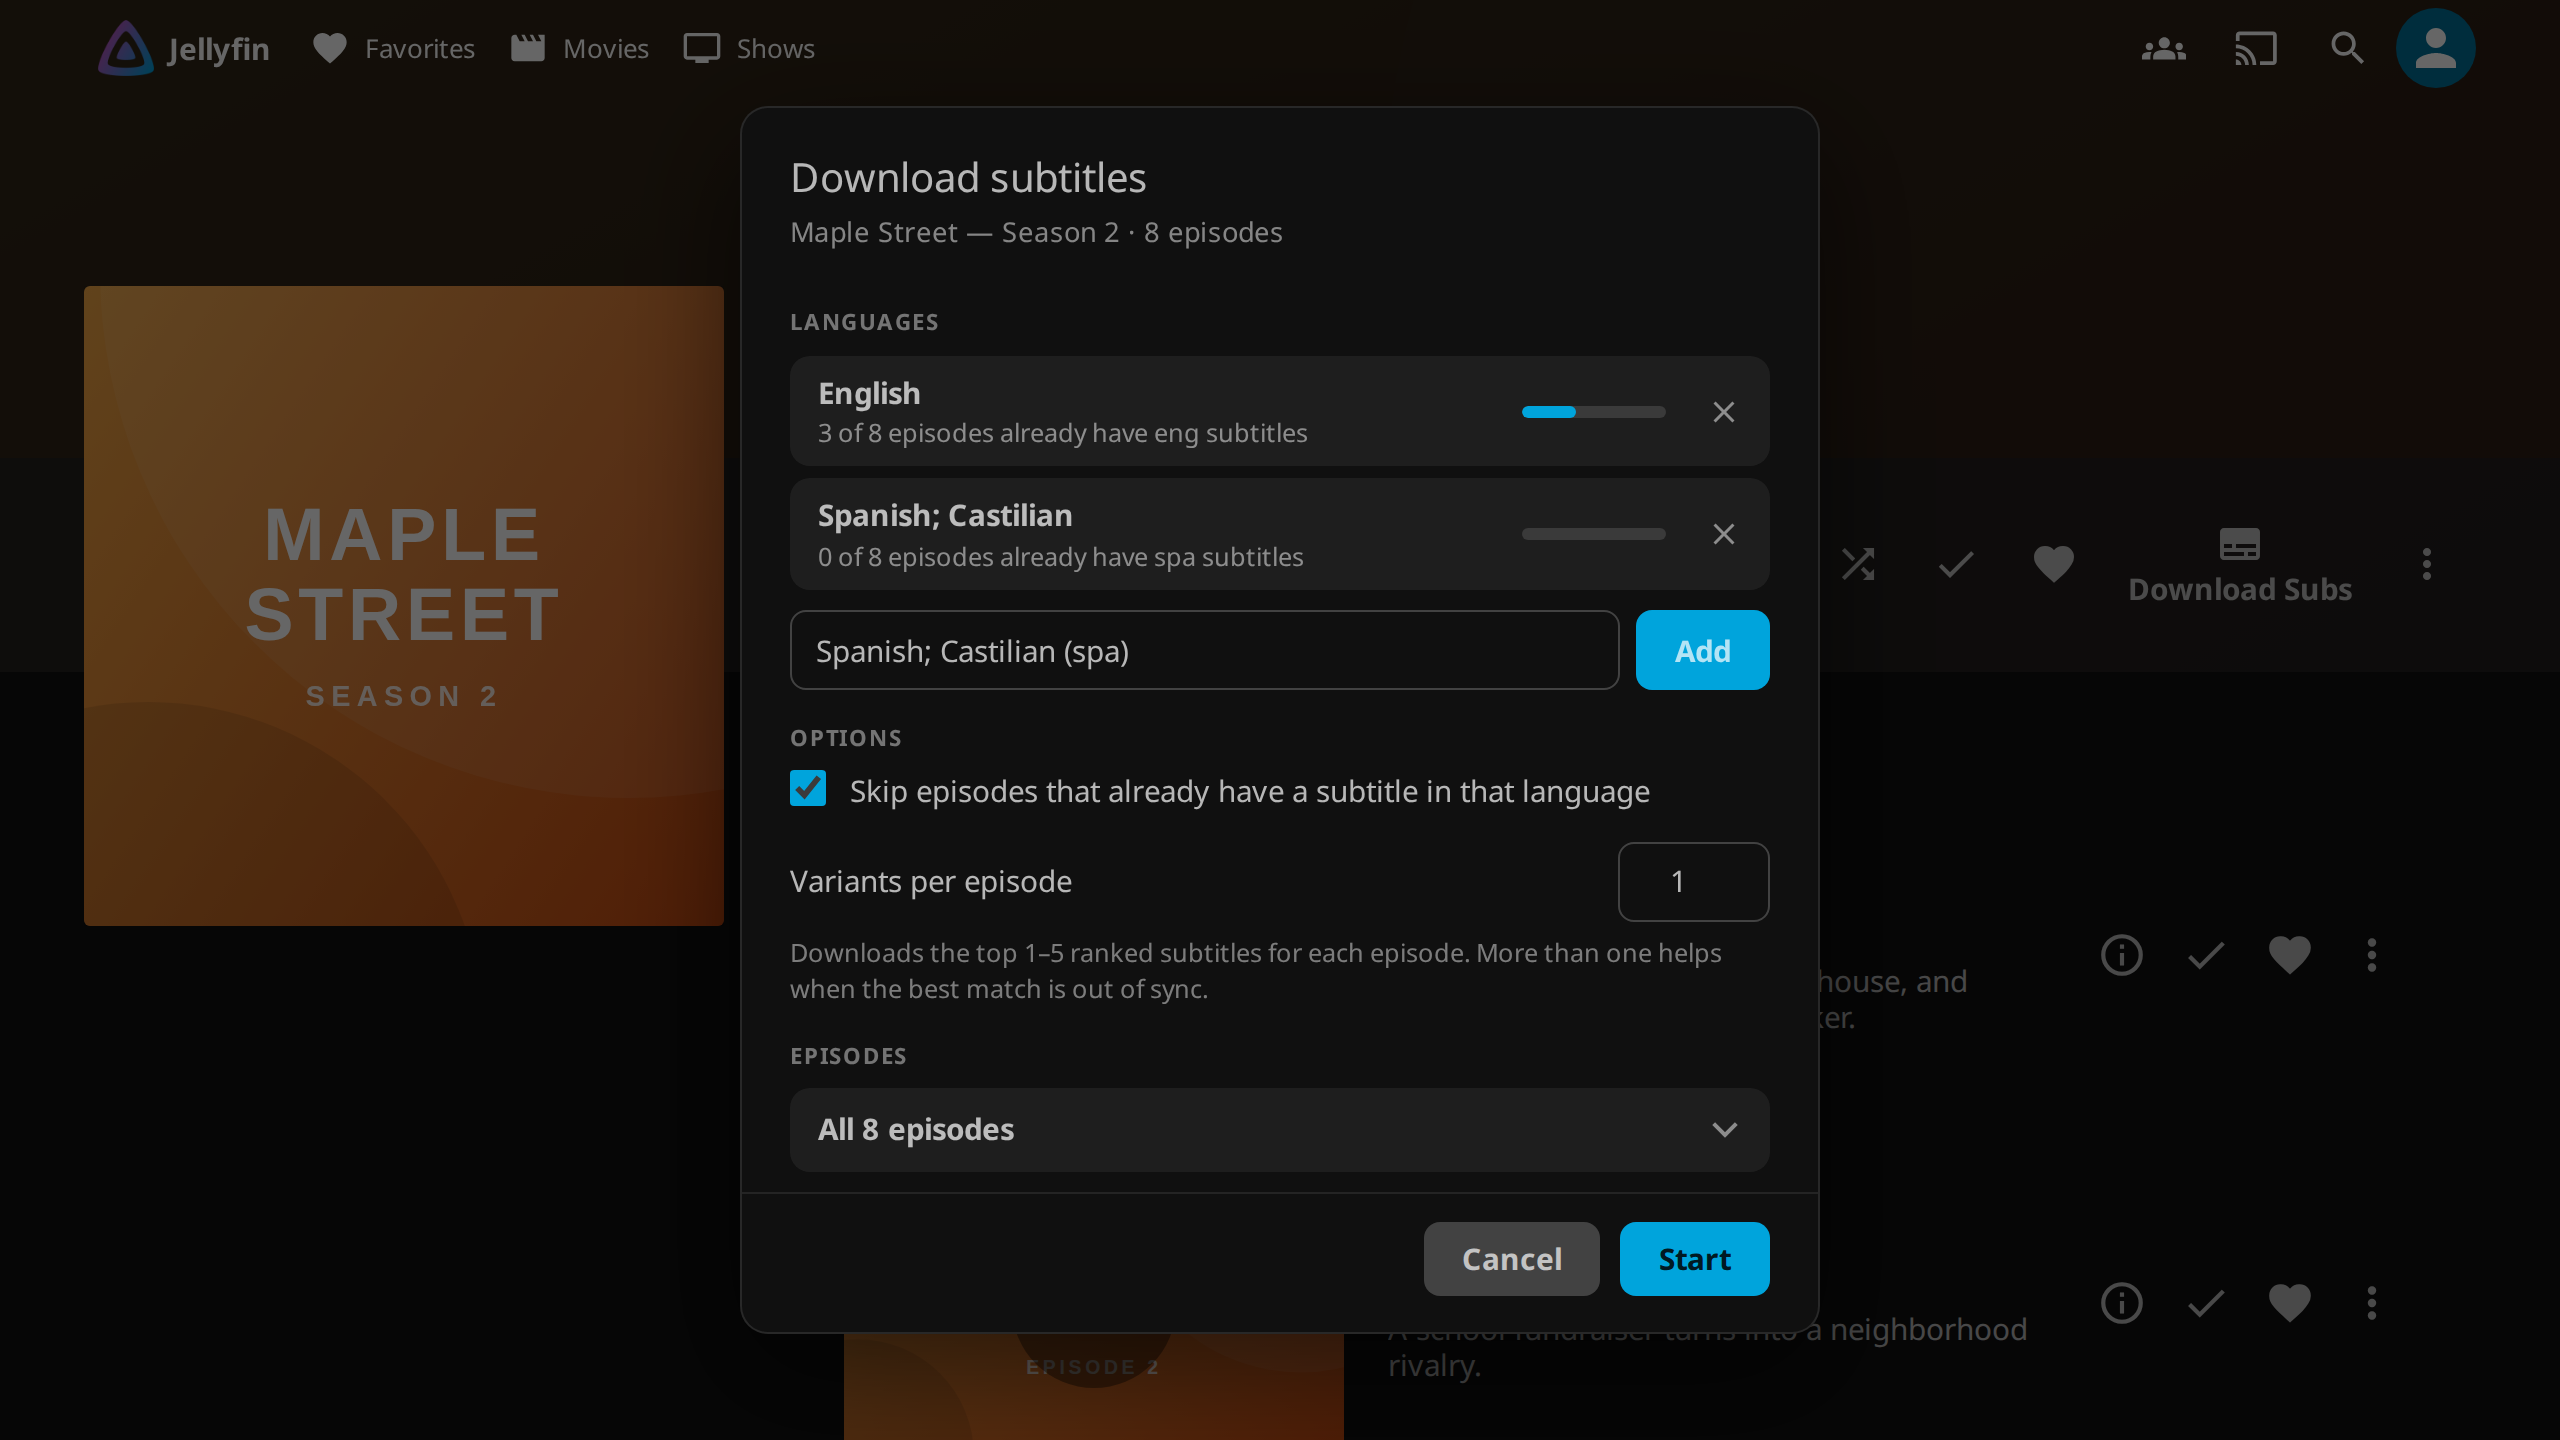
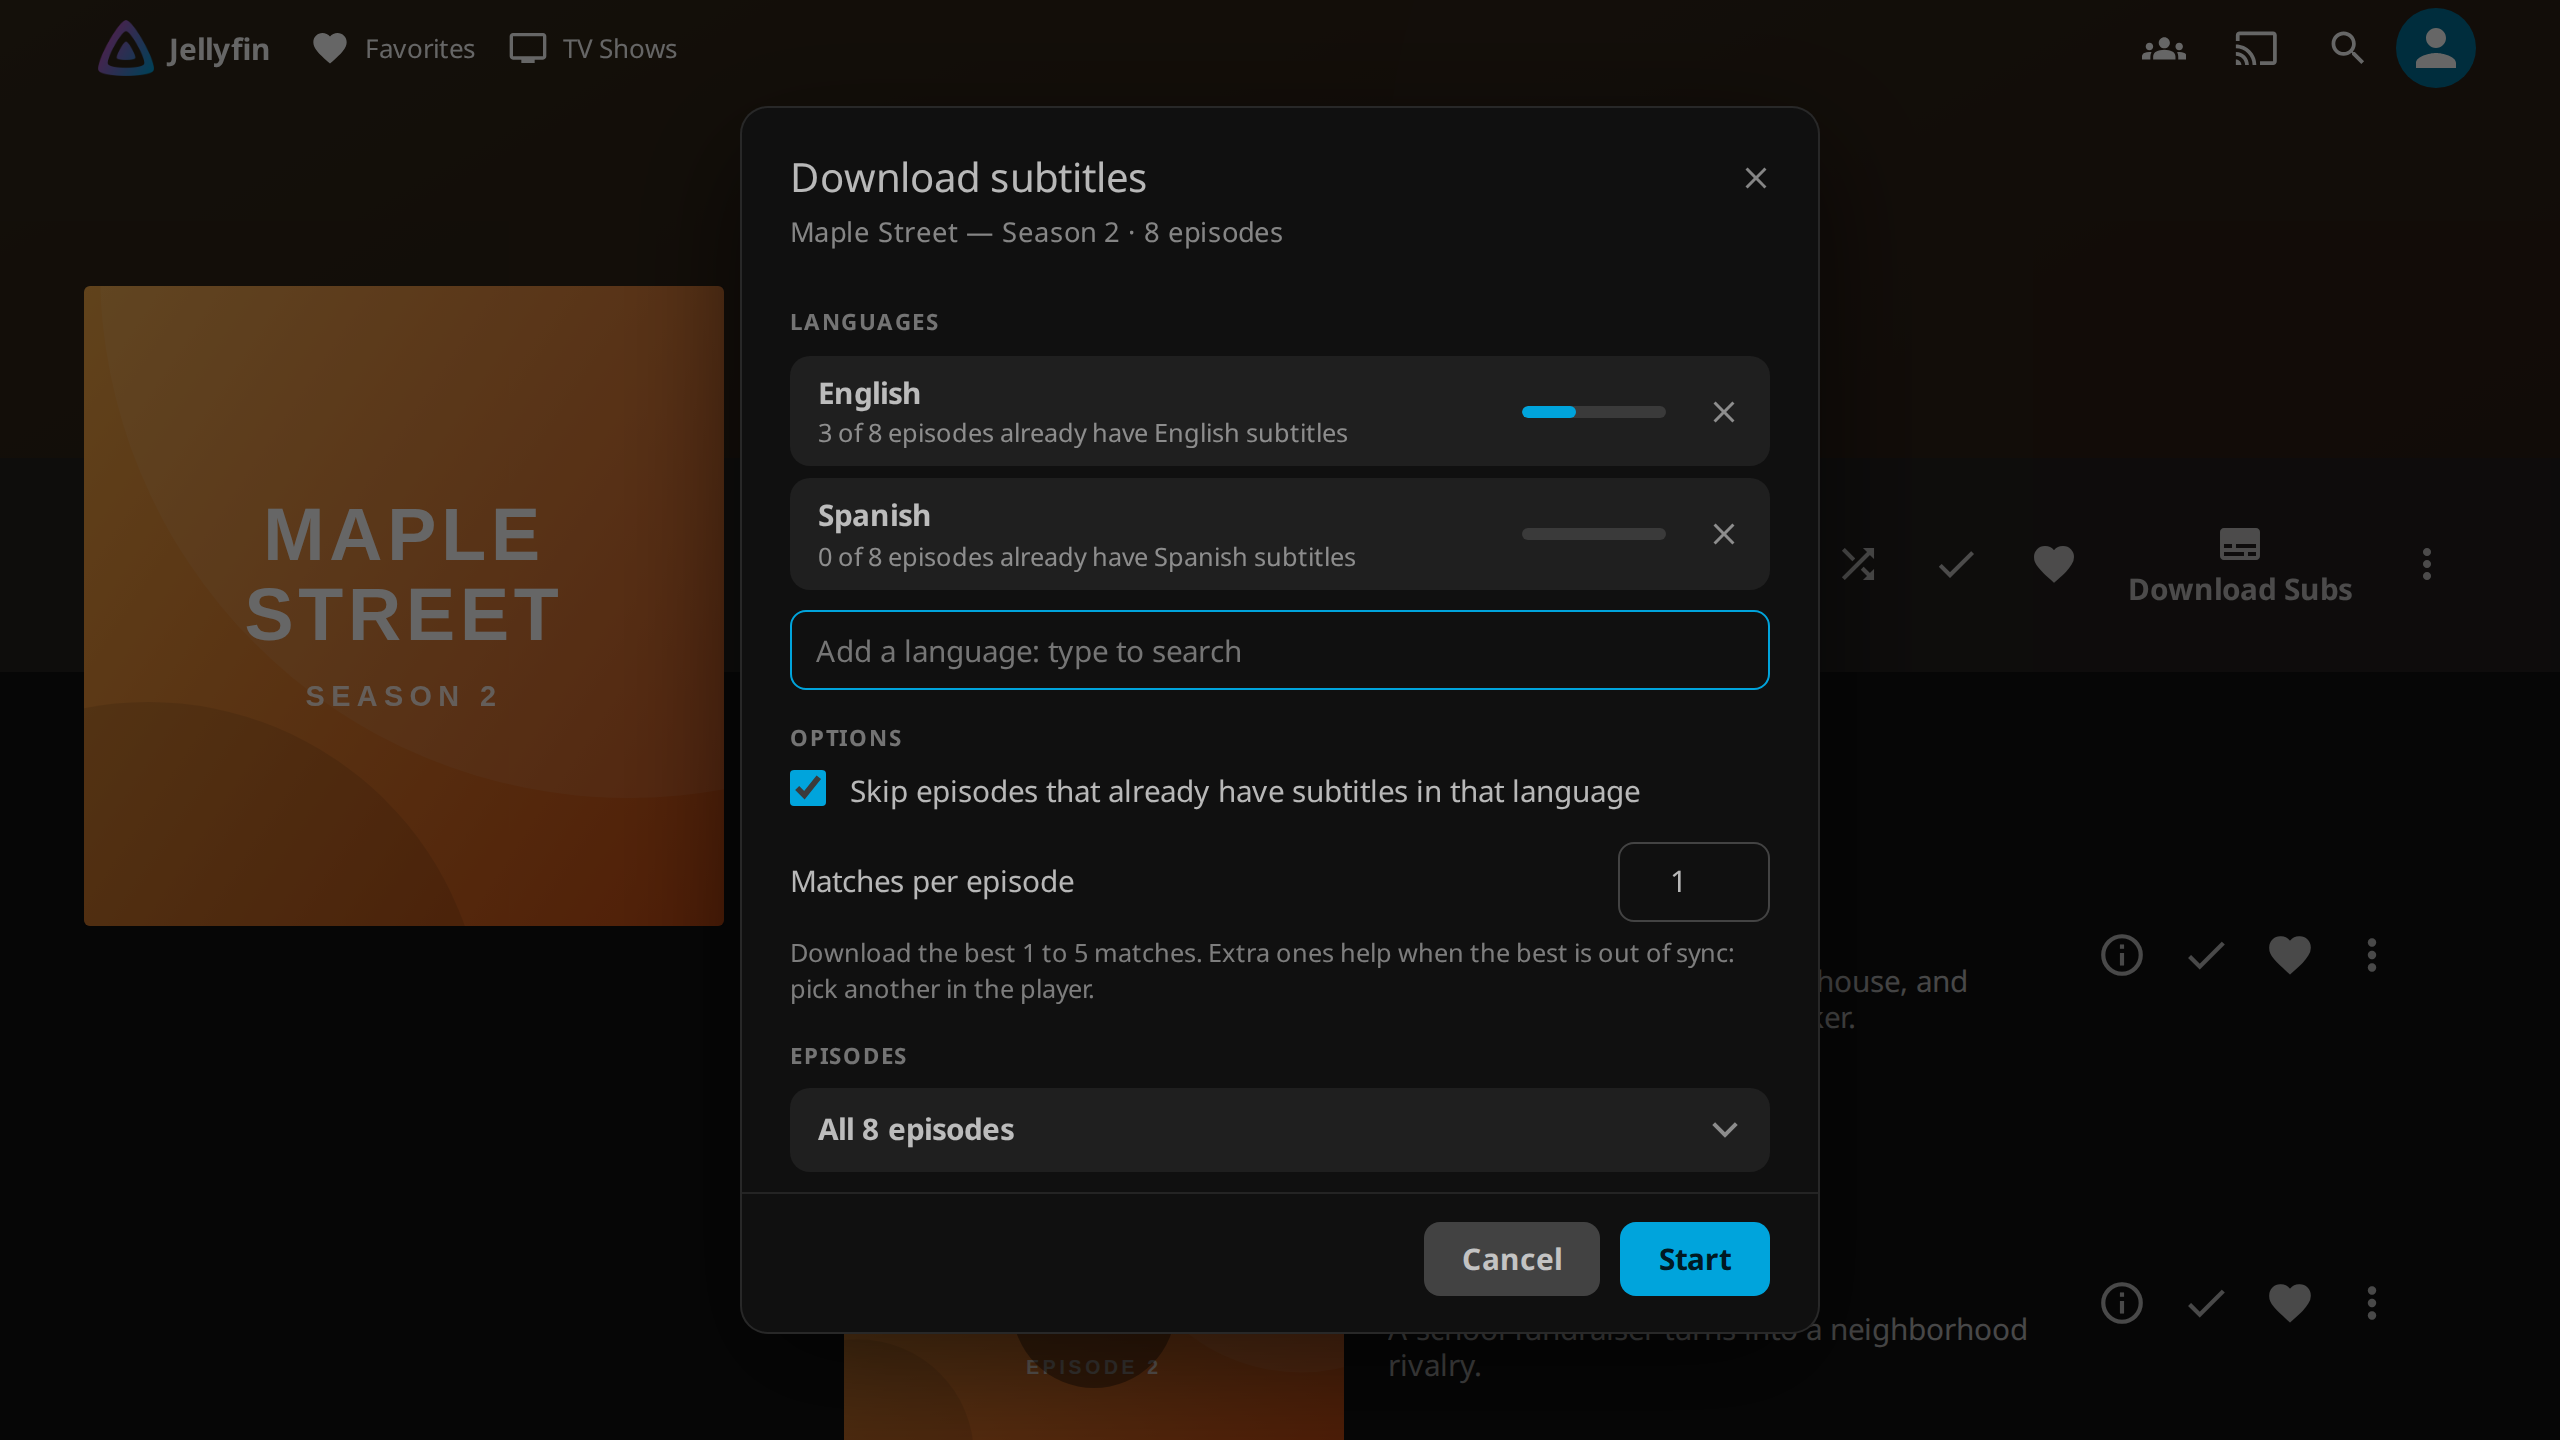
docs(demo): record the searchable picker and verified downloads

diff --git a/docs/demo/record_demo.py b/docs/demo/record_demo.py
@@ -47,8 +47,6 @@ def mock_id(*parts):
     return hashlib.md5(("subs-demo:" + ":".join(map(str, parts))).encode()).hexdigest()
 
 
-# ---- A made-up show ------------------------------------------------------------------------------------------------
-
 SHOW = {"name": "Maple Street", "year": 2014, "colors": ("#f6b04b", "#c2410c")}
 SERIES_ID = mock_id("series")
 SEASON_ID = mock_id("season", 2)
@@ -62,8 +60,8 @@ EPISODES = [
     (7, "Yard Sale", "One person's junk is another person's priceless heirloom."),
     (8, "Snowed In", "Stuck at home for three days with the in-laws."),
 ]
-HAS_ENGLISH = {1, 2, 4}  # episodes that already have English subtitles
-NO_MATCH = {(7, "spa")}  # the provider has nothing for these
+HAS_ENGLISH = {1, 2, 4}
+NO_MATCH = {(7, "spa")}
 
 ITEMS = {}
 ITEMS[SERIES_ID] = {
@@ -104,10 +102,21 @@ for number, title, overview in EPISODES:
     }
     EPISODE_ITEMS.append(ITEMS[item_id])
 EPISODE_NUMBER = {e["Id"]: e["IndexNumber"] for e in EPISODE_ITEMS}
+DOWNLOADED = {}
+
+
+def item(item_id):
+    found = ITEMS[item_id]
+    extra = DOWNLOADED.get(item_id)
+    if not extra:
+        return found
+    streams = found["MediaStreams"] + [
+        {"Type": "Subtitle", "Index": len(found["MediaStreams"]) + i, "Codec": "subrip", "Language": lang,
+         "IsExternal": True} for i, lang in enumerate(extra)]
+    return {**found, "MediaStreams": streams}
 
 
 def artwork(item_id, image_type):
-    """A generated title card (SVG) for the made-up show."""
     item = ITEMS[item_id]
     poster = image_type == "Primary" and item["Type"] in ("Series", "Season")
     w, h = (400, 600) if poster else (1280, 720) if image_type == "Backdrop" else (640, 360)
@@ -123,7 +132,7 @@ def artwork(item_id, image_type):
         lines += (f'<text x="50%" y="{h / 2 + size * 1.25:.0f}" text-anchor="middle" dominant-baseline="middle" '
                   f'font-size="{size * .38:.0f}" font-weight="600" letter-spacing="4" opacity=".85">{caption}</text>')
     if image_type == "Backdrop":
-        lines = ""  # backdrops stay plain so the page's title text reads well
+        lines = ""
     return f'''<svg xmlns="http://www.w3.org/2000/svg" width="{w}" height="{h}" viewBox="0 0 {w} {h}">
 <defs><linearGradient id="g" x1="0" y1="0" x2="1" y2="1"><stop offset="0" stop-color="{c1}"/>
 <stop offset="1" stop-color="{c2}"/></linearGradient></defs>
@@ -133,8 +142,6 @@ def artwork(item_id, image_type):
 <g fill="#fff" font-family="DejaVu Sans, Liberation Sans, Arial, sans-serif">{lines}</g>
 </svg>'''
 
-
-# ---- Request mocking ---------------------------------------------------------------------------------------------
 
 ID = r"([0-9a-f]{32})"
 stats = {"searches": 0, "downloads": 0}
@@ -156,11 +163,11 @@ def handle(route):
         replacement = f"<!-- season-subtitles-inject -->\n<script>{script}</script>\n<!-- /season-subtitles-inject -->"
         return route.fulfill(content_type="text/html", body=INJECTED.sub(lambda _: replacement, html))
     if path.startswith("/Branding/Css"):
-        return route.fulfill(content_type="text/css", body="")  # stock look: no custom theme
+        return route.fulfill(content_type="text/css", body="")
     if path == "/Branding/Configuration":
         branding = route.fetch().json()
-        branding["CustomCss"] = ""  # jellyfin-web also applies the custom CSS from here
-        return json_reply(route, branding)  # stock look, no custom theme
+        branding["CustomCss"] = ""
+        return json_reply(route, branding)
     if path.startswith("/EditorsChoice/"):
         return route.fulfill(content_type="text/javascript", body="")
     if path in ("/System/Info", "/System/Info/Public"):
@@ -168,17 +175,19 @@ def handle(route):
         info["ServerName"] = "Jellyfin"
         return json_reply(route, info)
     if path == f"/Plugins/{PLUGIN_GUID}/Configuration":
-        # The plugin's defaults, whatever the server has configured.
-        return json_reply(route, {"DefaultLanguage": "eng", "SkipExistingByDefault": True, "TopVariants": 1,
-                                  "RequestDelayMs": 0, "MaxRetries": 2})
+        return json_reply(route, {"DefaultLanguage": "", "DefaultLanguages": ["eng"], "SkipExistingByDefault": True,
+                                  "TopVariants": 1, "RequestDelayMs": 0, "MaxRetries": 2})
+    if path == "/Libraries/AvailableOptions":
+        return json_reply(route, {"SubtitleFetchers": [{"Name": "Open Subtitles", "DefaultEnabled": True}]})
     if path == f"/Shows/{SERIES_ID}/Episodes":
-        return json_reply(route, {"Items": EPISODE_ITEMS, "TotalRecordCount": len(EPISODE_ITEMS), "StartIndex": 0})
+        episodes = [item(e["Id"]) for e in EPISODE_ITEMS]
+        return json_reply(route, {"Items": episodes, "TotalRecordCount": len(episodes), "StartIndex": 0})
     if path == f"/Shows/{SERIES_ID}/Seasons":
         return json_reply(route, {"Items": [ITEMS[SEASON_ID]], "TotalRecordCount": 1, "StartIndex": 0})
     m = re.match(rf"^/Items/{ID}/RemoteSearch/Subtitles/([^/]+)$", path)
     if m and m.group(1) in ITEMS:
         episode, arg = m.group(1), m.group(2)
-        if request.method == "GET":  # search: arg is the language
+        if request.method == "GET":
             stats["searches"] += 1
             time.sleep(0.16)
             if (EPISODE_NUMBER[episode], arg) in NO_MATCH:
@@ -186,21 +195,20 @@ def handle(route):
             return json_reply(route, [{"Id": f"demo-{arg}-{episode[:8]}", "ProviderName": "Open Subtitles",
                                        "Name": f"Maple.Street.S02E{EPISODE_NUMBER[episode]:02d}.{arg}.srt",
                                        "Format": "srt", "ThreeLetterISOLanguageName": arg, "DownloadCount": 1200}])
-        stats["downloads"] += 1  # POST: arg is the subtitle id
+        stats["downloads"] += 1
         time.sleep(0.2)
+        DOWNLOADED.setdefault(episode, []).append(arg.split("-")[1])
         return route.fulfill(status=204, body="")
     m = re.match(rf"^/Items/{ID}/Images/(\w+)", path)
     if m and m.group(1) in ITEMS:
         return route.fulfill(content_type="image/svg+xml", body=artwork(m.group(1), m.group(2)))
     m = re.match(rf"^(?:/Users/[0-9a-f]+)?/Items/{ID}$", path)
     if m and m.group(1) in ITEMS:
-        return json_reply(route, ITEMS[m.group(1)])
+        return json_reply(route, item(m.group(1)))
     if any(i in path or i in query for i in ITEMS):
-        return route.fulfill(status=404, body="")  # other per-item extras (similar, theme media, …) stay empty
+        return route.fulfill(status=404, body="")
     return route.continue_()
 
-
-# ---- Browser helpers ---------------------------------------------------------------------------------------------
 
 SESSION = json.dumps({"Servers": [{
     "ManualAddress": BASE, "manualAddressOnly": True, "Id": SERVER_ID, "Name": "Jellyfin",
@@ -210,7 +218,6 @@ SESSION = json.dumps({"Servers": [{
 LOGIN = (f"localStorage.setItem('jellyfin_credentials', {json.dumps(SESSION)});"
          f"localStorage.setItem('_deviceId2', {json.dumps(os.environ['JELLYFIN_DEVICE_ID'])});")
 
-# A visible mouse pointer for the video (headless browsers don't draw one).
 CURSOR = """window.addEventListener('DOMContentLoaded', () => {
   const c = document.createElement('div');
   c.innerHTML = '<svg width="26" height="26" viewBox="0 0 24 24"><path d="M3 2v17l4.6-4.4 3.3 7.4 3.1-1.4-3.3-7.2H17z" '
@@ -245,7 +252,7 @@ def open_season(page):
     page.goto(f"{BASE}/web/#/details?id={SEASON_ID}&serverId={SERVER_ID}")
     page.locator(".season-subs-btn:visible").wait_for(timeout=45000)
     page.wait_for_load_state("networkidle")
-    page.wait_for_timeout(1000)  # let images fade in
+    page.wait_for_timeout(1000)
 
 
 def glide(page, start, end, ms=600):
@@ -264,7 +271,6 @@ def centre(locator):
 
 
 def run_flow(page, pointer=None):
-    """Open the dialog, add Spanish next to English, start, and wait for the run to finish."""
     def click(locator, ms=650, pause=350):
         nonlocal pointer
         if pointer:
@@ -278,18 +284,20 @@ def run_flow(page, pointer=None):
     dialog = page.locator("[role=dialog]", has_text="Download subtitles")
     dialog.wait_for(timeout=15000)
     page.wait_for_timeout(1300 if pointer else 300)
-    select = dialog.locator("#season-subs-lang")
-    if pointer:
-        pointer = glide(page, pointer, centre(select), 600)
-        page.wait_for_timeout(300)
-    select.select_option("spa")  # native dropdowns don't show in recordings, so pick it directly
-    page.wait_for_timeout(500 if pointer else 100)
-    click(dialog.get_by_role("button", name="Add", exact=True), 450, 300)
+    click(dialog.locator("#season-subs-lang"), 600, 250)
+    page.keyboard.type("span", delay=140 if pointer else 0)
+    page.wait_for_timeout(700 if pointer else 100)
+    click(dialog.locator(".ssd-combo-opt[data-code=spa]"), 450, 300)
     page.wait_for_timeout(1300 if pointer else 300)
     return dialog, (lambda: click(dialog.get_by_role("button", name="Start", exact=True), 600, 400)), lambda: pointer
 
 
 failures = []
+
+
+def tiles(page):
+    return {label: int(num) for num, label in (
+        t.inner_text().split("\n", 1) for t in page.locator(".ssd-stat").all())}
 
 
 def check(condition, message):
@@ -301,25 +309,25 @@ def check(condition, message):
 with sync_playwright() as p:
     browser = p.chromium.launch()
 
-    # 1. Screenshots at 2x: the season page with the button, the dialog, and the finished run.
+    DOWNLOADED.clear()
     context, page = new_page(browser, viewport={"width": 1280, "height": 720}, device_scale_factor=2)
     open_season(page)
     page.screenshot(path=f"{OUT}/season.png")
     dialog, start, _ = run_flow(page)
     coverage = dialog.inner_text()
-    check("3 of 8 episodes already have eng subtitles" in coverage, "dialog counts existing English subtitles")
-    check("0 of 8 episodes already have spa subtitles" in coverage, "dialog counts existing Spanish subtitles")
+    check("3 of 8 episodes already have English subtitles" in coverage, "dialog counts existing English subtitles")
+    check("0 of 8 episodes already have Spanish subtitles" in coverage, "dialog counts existing Spanish subtitles")
     page.screenshot(path=f"{OUT}/dialog.png")
     start()
     page.locator("[role=dialog]", has_text="Done").wait_for(timeout=30000)
     page.wait_for_timeout(400)
     page.screenshot(path=f"{OUT}/done.png")
-    summary = page.locator("[role=status]").last.inner_text(timeout=5000)  # the summary toast
+    summary = tiles(page)
     print("summary:", summary)
-    check("3 skipped" in summary and "1 no match" in summary and "0 failed" in summary, "run summary adds up")
+    check(summary == {"Downloaded": 12, "Skipped": 3, "No match": 1, "Failed": 0}, "run summary adds up")
     context.close()
 
-    # 2. The demo video.
+    DOWNLOADED.clear()
     size = {"width": 1280, "height": 720}
     context, page = new_page(browser, cursor=True, viewport=size, record_video_dir=f"{OUT}/video", record_video_size=size)
     started = time.monotonic()
